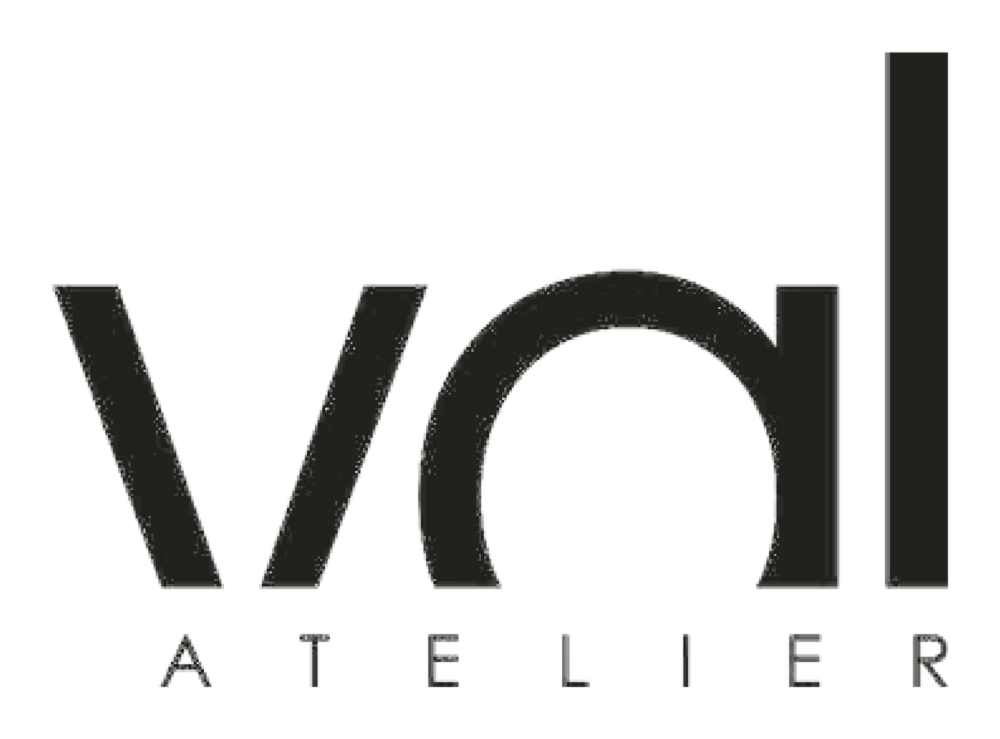
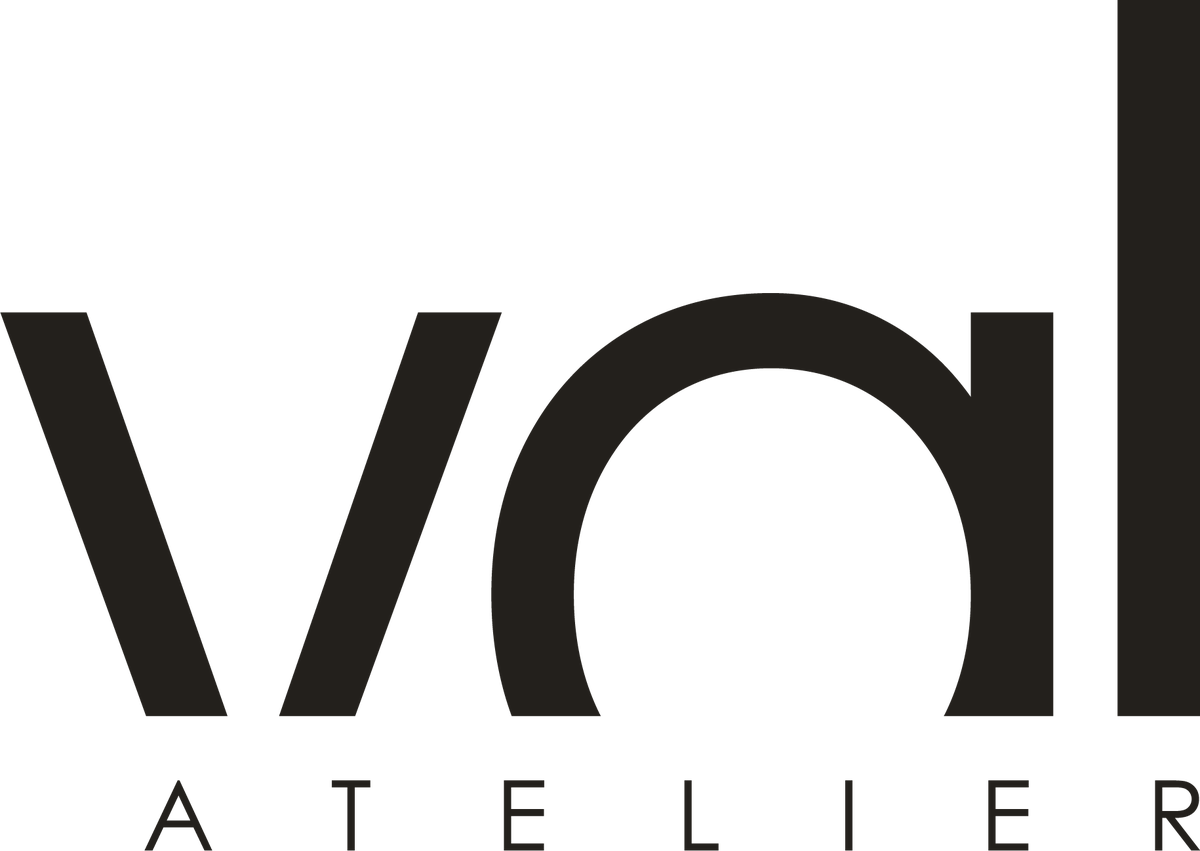
commit

diff --git a/assets/css/val.css b/assets/css/val.css
@@ -345,7 +345,17 @@ p.body{font-size:15.5px;line-height:1.8;color:var(--ink-soft);font-weight:400;ma
 .nav a:hover::after{transform:scaleX(1);transform-origin:left}
 .nav a.is-here{color:var(--brass)}
 .nav a.is-here::after{background:var(--brass);transform:scaleX(1)}
-.hdr__cta{display:none}
+/* The enquiry button is on the bar at every width. On a phone it sits tight
+   against the burger, set smaller and without its arrow, because the room
+   between it and the wordmark is the only room there is. */
+.hdr__cta{display:inline-flex}
+@media(max-width:1019px){
+  .hdr__cta{margin-left:auto;padding:10px 15px;font-size:9.5px;letter-spacing:.16em;gap:0}
+  .hdr__cta .ar{display:none}
+}
+@media(max-width:390px){.hdr__cta{padding:9px 12px;font-size:9px;letter-spacing:.12em}}
+/* it would otherwise sit over the open menu */
+.hdr.is-open .hdr__cta{opacity:0;pointer-events:none;transition:opacity .25s var(--ease)}
 
 /* pages that open on a full-bleed photograph carry the header in reverse
    until the first scroll brings the solid bar in */
@@ -361,7 +371,6 @@ p.body{font-size:15.5px;line-height:1.8;color:var(--ink-soft);font-weight:400;ma
 .hdr.is-over .burger span{background:var(--bone)}
 @media(min-width:1020px){
   .nav{display:flex}
-  .hdr__cta{display:inline-flex}
 }
 
 /* burger */
@@ -563,6 +572,10 @@ section,.sec,.mast,.cta,.deck,.pj-next{overflow-x:clip}
 .mast__grid{display:grid;gap:30px}
 @media(min-width:920px){.mast__grid{grid-template-columns:1.4fr 1fr;gap:70px;align-items:end}}
 .mast h1{font-family:var(--disp);font-weight:400;font-size:clamp(42px,7.4vw,104px);line-height:.96;letter-spacing:-.028em}
+/* where the masthead carries the mark instead of the name set in type: the
+   artwork is 1200px, so this stays well inside it on a retina screen */
+.mast h1.mast__mark{font-size:0;line-height:0}
+.mast h1.mast__mark img{display:block;width:clamp(220px,34vw,440px);height:auto}
 .mast .crumb{display:flex;align-items:center;gap:14px;margin-bottom:28px}
 .mast .crumb .bar{width:40px;height:1px;background:var(--brass)}
 
@@ -993,11 +1006,32 @@ section,.sec,.mast,.cta,.deck,.pj-next{overflow-x:clip}
 
 /* ---------- contact ---------- */
 .ct-grid{display:grid;gap:clamp(44px,5vw,84px)}
-@media(min-width:960px){.ct-grid{grid-template-columns:.95fr 1.05fr}}
+/* the form leads: it is the route the studio actually wants people to take,
+   so it takes the wider half and the column beside it reads as a short list
+   of quicker ways to get hold of them rather than a second form */
+@media(min-width:960px){.ct-grid{grid-template-columns:.8fr 1.2fr;gap:clamp(48px,6vw,96px)}}
 .ct-rows{border-top:1px solid var(--line)}
-.ct-row{display:grid;grid-template-columns:96px 1fr auto;align-items:center;gap:16px;padding:22px 2px;border-bottom:1px solid var(--line);position:relative}
+.ct-row{display:grid;grid-template-columns:84px 1fr auto;align-items:center;gap:14px;padding:14px 2px;border-bottom:1px solid var(--line);position:relative}
 .ct-row .k{font-size:10px;letter-spacing:.26em;text-transform:uppercase;color:var(--muted)}
-.ct-row .v{font-family:var(--disp);font-size:clamp(19px,2vw,26px);letter-spacing:-.008em;transition:transform .5s var(--ease-io),color .4s var(--ease)}
+/* The studio column reads as one thing rather than three. Every block under
+   the rows takes the same shape they do: a label, then a line in the display
+   face at the size the rows use, then a note beneath it in the text face.
+   Before this, one block was set entirely in the text face at 15px and the
+   next in the display face at 36px, which is what read as different fonts.
+   The note in the second was also a span carrying .body, and .body is only
+   defined for a p, so it was inheriting the 36px around it. */
+.ct-block{margin-top:clamp(30px,3.8vh,44px)}
+.ct-block .v{
+  display:block;margin-top:14px;
+  font-family:var(--disp);font-size:clamp(16.5px,1.25vw,19px);
+  line-height:1.35;letter-spacing:-.006em;
+}
+.ct-block .n{
+  display:block;margin-top:8px;max-width:40ch;
+  font-size:14.5px;line-height:1.75;color:var(--muted);
+}
+
+.ct-row .v{font-family:var(--disp);font-size:clamp(16.5px,1.25vw,19px);letter-spacing:-.006em;transition:transform .5s var(--ease-io),color .4s var(--ease)}
 .ct-row .ar{color:var(--brass);opacity:0;transform:translateX(-12px);transition:opacity .4s var(--ease),transform .5s var(--ease)}
 @media(hover:hover){
   a.ct-row:hover .v{transform:translateX(10px);color:var(--brass)}

diff --git a/contact.html b/contact.html
@@ -41,14 +41,21 @@
           <span class="label rv-l">The studio</span>
           <div class="ct-rows mt-l" data-contact></div>
 
-          <div class="mt-xl rv">
-            <span class="label">Office hours</span>
-            <p class="body mt-l" style="margin-top:18px">Monday to Saturday, 10:00 &ndash; 18:00 IST.<br>Site visits by appointment.</p>
+          <div class="ct-block rv">
+            <span class="label">Studio</span>
+            <span class="v" data-address></span>
           </div>
 
-          <div class="mt-xl rv">
+          <div class="ct-block rv">
+            <span class="label">Office hours</span>
+            <span class="v">Monday to Saturday, 10:00 &ndash; 18:00 IST</span>
+            <span class="n">Site visits by appointment.</span>
+          </div>
+
+          <div class="ct-block rv">
             <span class="label">Working across</span>
-            <p class="d3" style="margin-top:18px">Hyderabad &middot; Bangalore<br><span class="body" style="display:block;margin-top:10px">and elsewhere in India for the right project.</span></p>
+            <span class="v">Hyderabad &middot; Bangalore</span>
+            <span class="n">and elsewhere in India for the right project.</span>
           </div>
         </div>
 
@@ -129,9 +136,11 @@ window.PAGE = function(VAL){
   var rows = [
     { k: "Email",     v: S.email,     href: "mailto:" + S.email },
     { k: "Phone",     v: S.phone,     href: "tel:" + S.phoneLink },
-    { k: "Instagram", v: S.instagram, href: S.instagramLink, ext: true },
-    { k: "Studio",    v: S.addressLines.join(", ") }
+    { k: "Instagram", v: S.instagram, href: S.instagramLink, ext: true }
   ];
+  var addr = document.querySelector("[data-address]");
+  if (addr) addr.textContent = S.addressLines.join(", ");
+
   var host = document.querySelector("[data-contact]");
   if (host){
     host.innerHTML = rows.map(function(r, i){

diff --git a/about.html b/about.html
@@ -26,7 +26,11 @@
     <div class="wrap">
       <div class="crumb rv-l"><i class="bar"></i><span class="label">The studio</span></div>
       <div class="mast__grid">
-        <h1 data-lines>Val|Atelier</h1>
+        <!-- the studio's mark rather than its name set in type. It stays an
+             h1: the alt carries the name, so the heading still reads to a
+             search engine and to a screen reader. -->
+        <h1 class="mast__mark rv-l"><img src="assets/brand/val-atelier-mark.webp"
+            width="1200" height="851" alt="Val Atelier" fetchpriority="high" decoding="async"></h1>
         <p class="lede rv" data-d="2">A design-led interior architecture studio in Hyderabad, published in Architectural Digest India, working across homes, boutiques, cafés and workspaces, and on its own room, which is where most of the material decisions still get made.</p>
       </div>
     </div>
